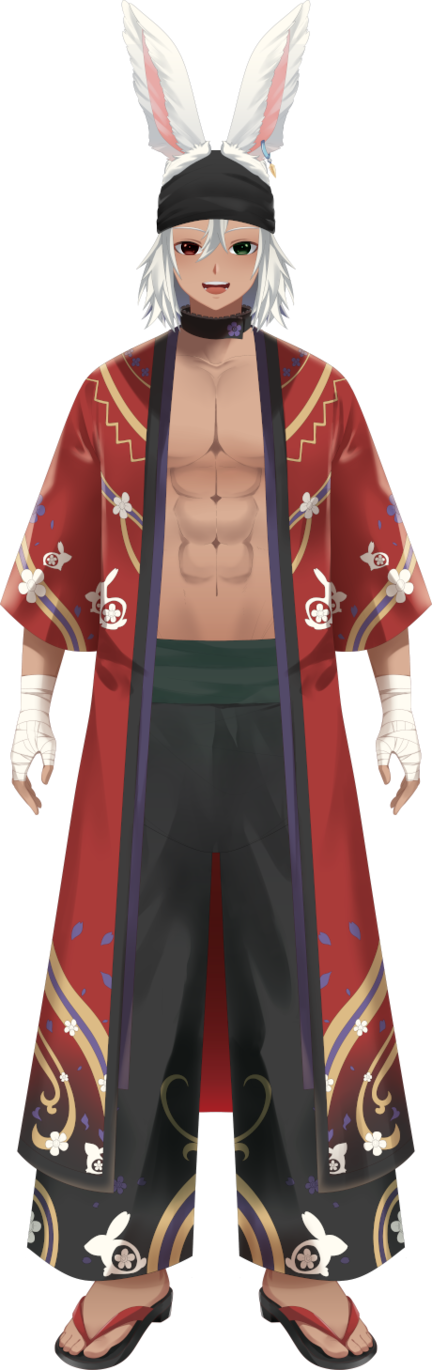
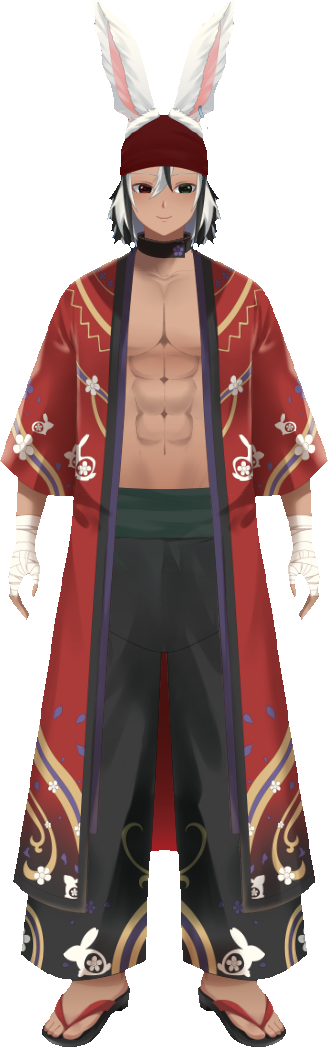
2024-04-15T15:22:12 CEST

diff --git a/site/about-me.html b/site/about-me.html
@@ -85,25 +85,27 @@ excerpt: |
 </p>
 <div class="row">
   <figure class="col-12 col-md-6 order-1 order-md-2">
+    <a href="/images/rpgreki-alt.png" title="RPGReki 1.2>
     <picture>
       <source
         srcset="{{ "/images/rpgreki.avif" | absolute_url }}"
-        width="432" height="1370"
+        width="328" height="1047"
         type="image/avif">
       <source  
         srcset="{{ "/images/rpgreki.webp" | absolute_url }}"
-        width="432" height="1370"
+        width="328" height="1047"
         type="image/webp">
       <source
         srcset="{{ "/images/rpgreki.png" | absolute_url }}"
-        width="432" height="1370"
+        width="328" height="1047"
       type="image/png">
       <img loading="lazy" itemprop="url"
         src="{{ "/images/rpgreki.png" | absolute_url }}" 
-        width="432" height="1370"
+        width="328" height="1047"
         alt="RPGReki" title="RPGReki">
     </picture>
-    <figcaption>RPGReki 1.0</figcaption>
+    </a>
+    <figcaption><a href="/images/rpgreki-alt.png" title="RPGReki 1.2">RPGReki 1.2</a></figcaption>
   </figure>
 
   <div class="col-12 col-md-6 order-2 order-md-1">
@@ -112,12 +114,11 @@ excerpt: |
 
     <p class="no-print mt-2">
       Hello! I'm RPGReki or simply Reki.
-      I'm a Bunny Boy who grew up in Haitei City, at least I think I'm from there.
-      It seems I'm a forgotten incarnation of River Song.
-      I sometimes steal a TARDIS to look for trouble in different times and realms.
-      Once of realms I frequent is Final Fantasy XIV.
-      I visit other realms, preferably turn-based JRPGs, though I do spend my time in realms comfy realms too.
-      As a time-traveler, I shouldn't give you spoilers, so my fortune-telling is just me nudging you in the right direction, or just messing with your for my own amusement, you never know.
+      I'm a Bunny Boy who grew up in Haitei City — at least I used to think I'm from there — it seems I'm a forgotten incarnation of River Song.
+      Sometimes I steal a TARDIS to look for trouble in different times and realms.
+      One of realms I frequent is Final Fantasy XIV.
+      While I visit other realms, preferably turn-based JRPGs, though I do spend my time in realms comfy realms too.
+      As a time-traveler, I shouldn't give you spoilers, so my fortune-telling is just me nudging you in the right direction, or just messing with you for my own amusement, you never know.
     </p>
 
     <h2>Haitei City</h2>
